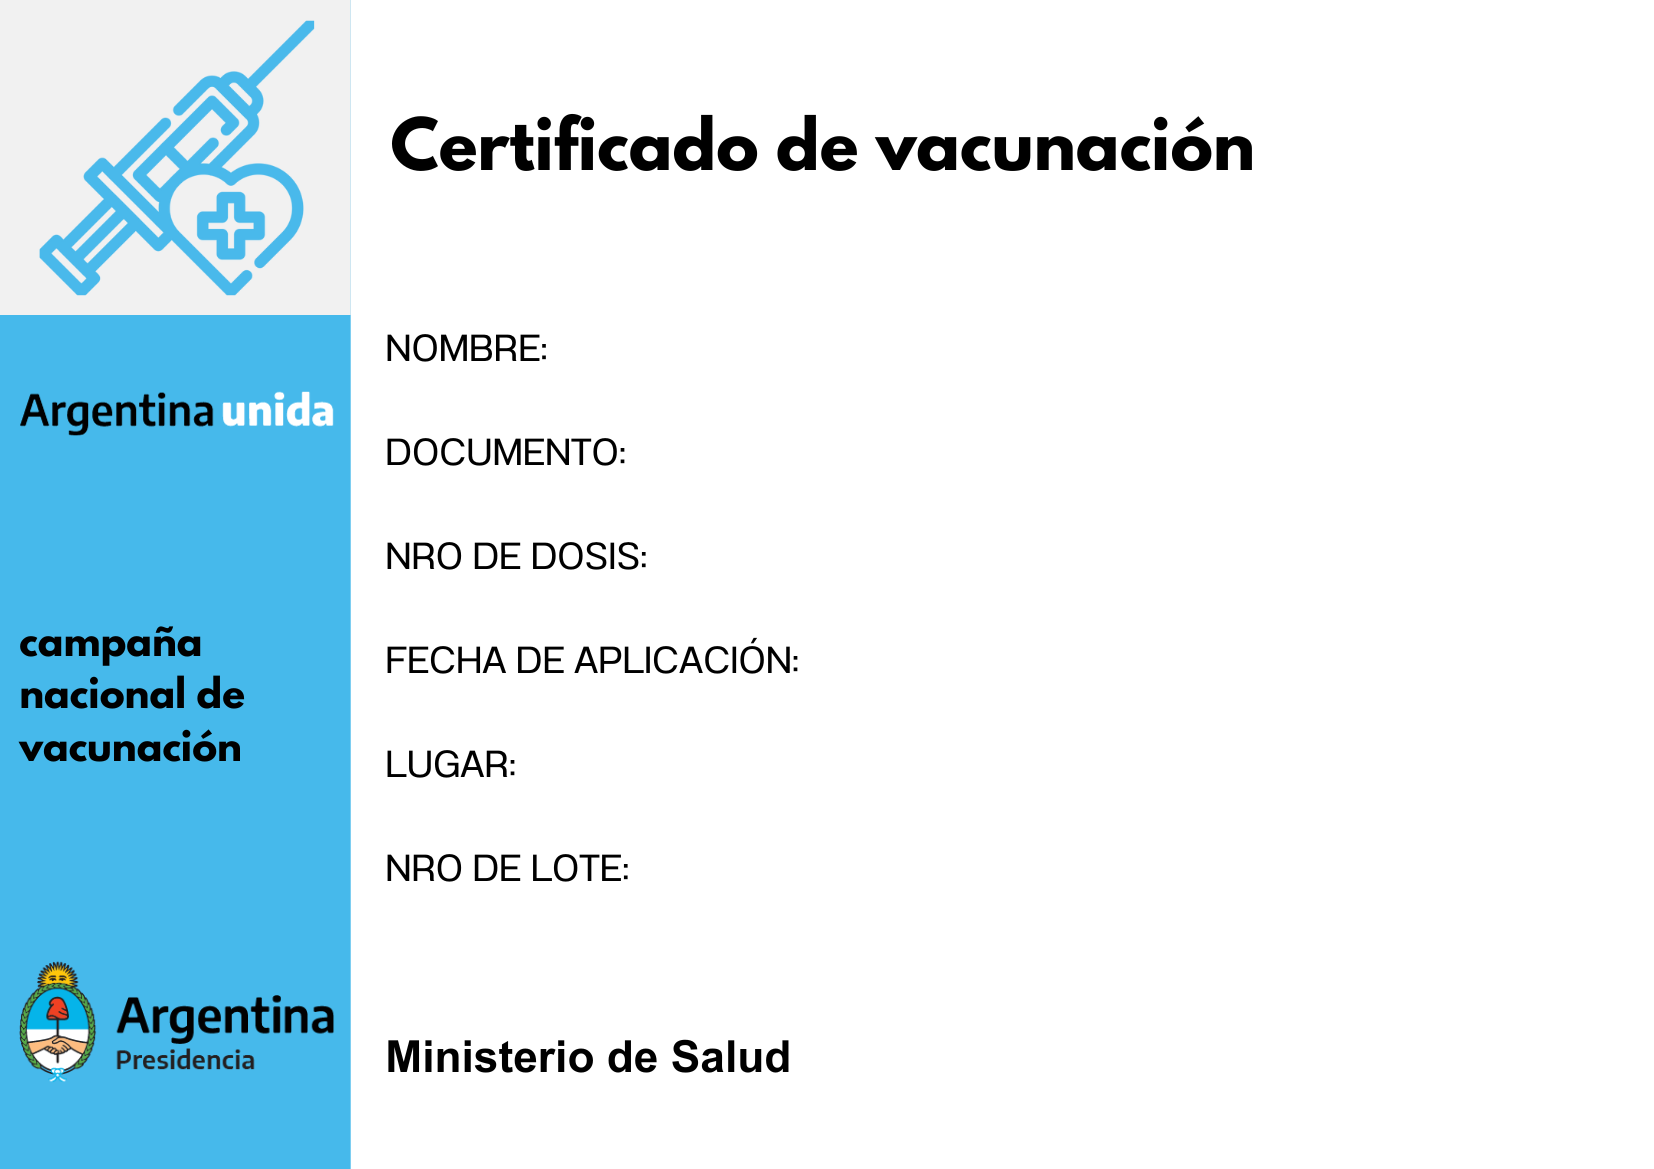
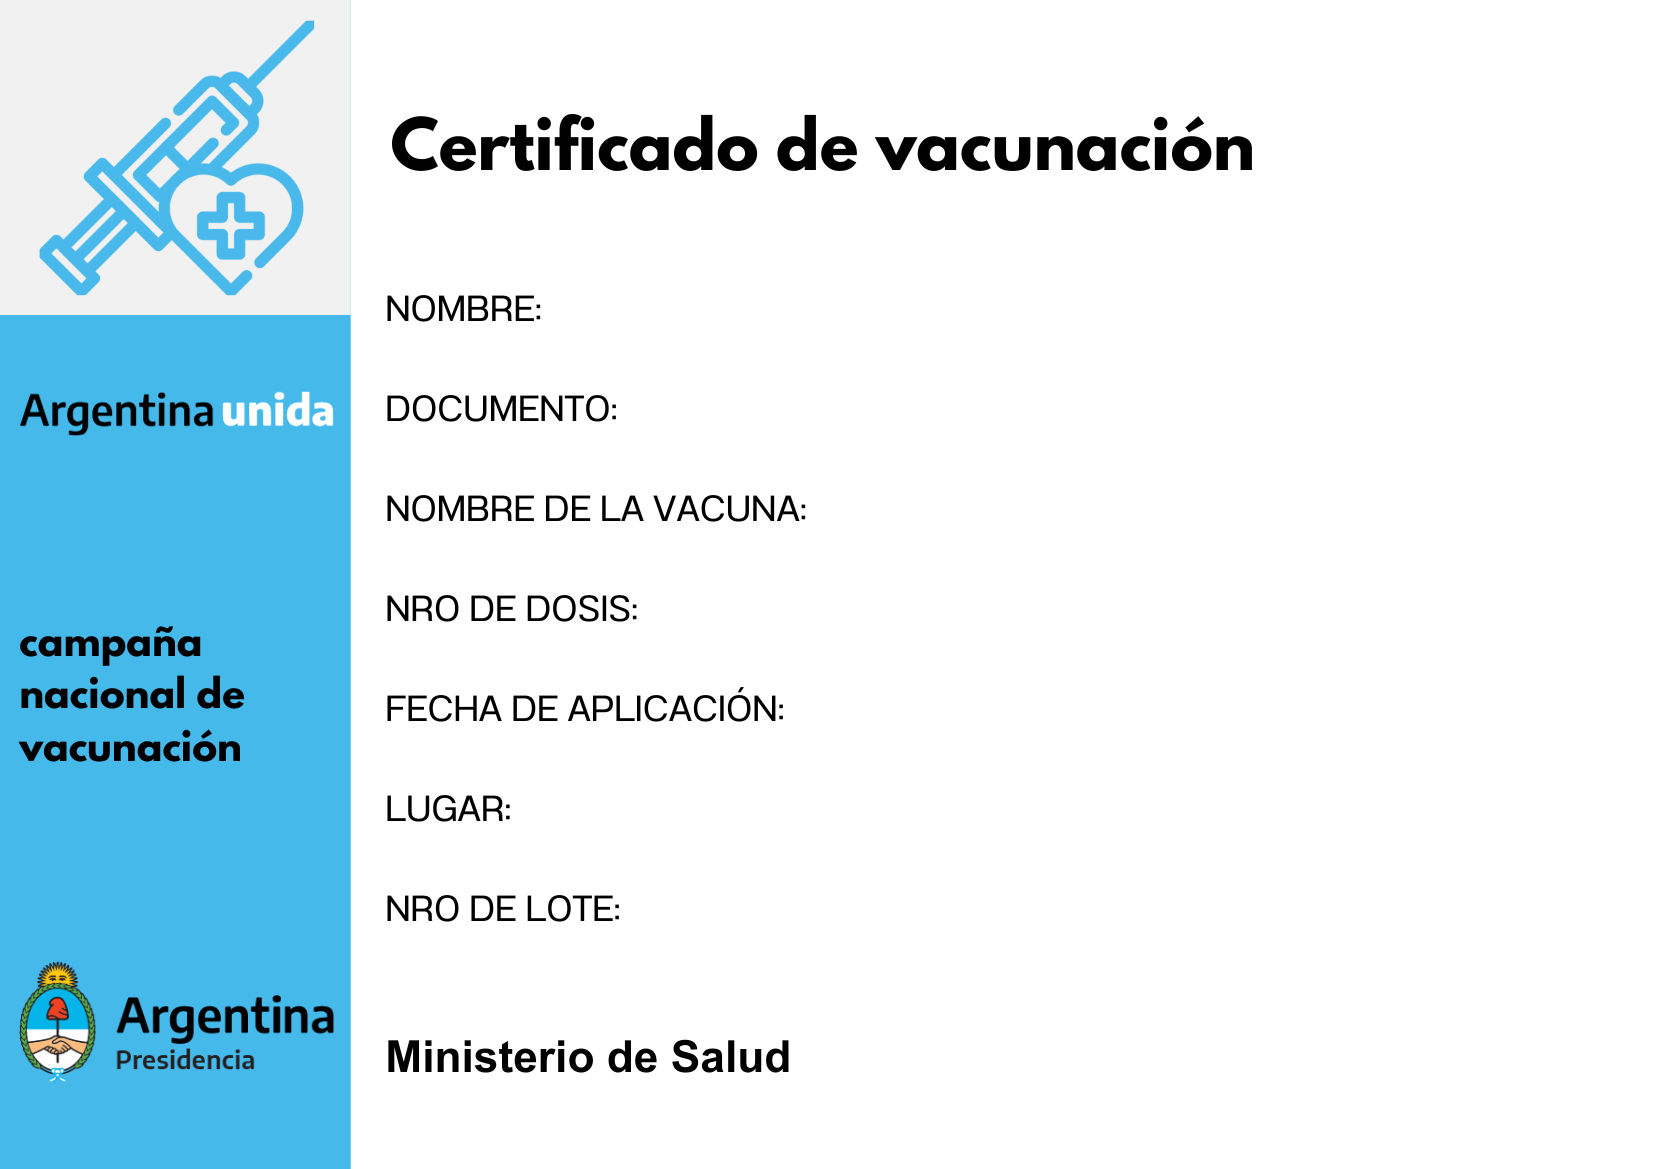
Cambio Final

Changed region(s): [[0.2158, 0.3388, 0.4933, 0.6159], [0.2158, 0.6467, 0.37, 0.8007], [0.2158, 0.2464, 0.3392, 0.308]]

diff --git a/src/SistemaDeVacunacion/Vistas/DatoCertificado.java b/src/SistemaDeVacunacion/Vistas/DatoCertificado.java
@@ -20,6 +20,7 @@ import java.io.FileOutputStream;
 import java.io.IOException;
 import java.util.logging.Level;
 import java.util.logging.Logger;
+import javax.swing.JOptionPane;
 
 /**
  *
@@ -29,9 +30,7 @@ public class DatoCertificado extends javax.swing.JFrame {
 
     private Ciudadano ciudadano;
     private Cita cita;
-    /**
-     * Creates new form Main
-     */
+
     public DatoCertificado() {
         initComponents();
         setSize(800, 629);
@@ -184,27 +183,43 @@ public class DatoCertificado extends javax.swing.JFrame {
             Paragraph txt = new Paragraph();
             txt.setAlignment(Paragraph.ALIGN_RIGHT);
             txt.setFont(FontFactory.getFont(FontFactory.COURIER, 40, Font.BOLD, BaseColor.BLACK));
-            txt.add("\n\n\n\n\n\n\n\n\n\n\n\n\n\n\n\n\n\n\n");
-            txt.add(ciudadano.getApellido() + ", " + ciudadano.getNombre());
-            txt.add("\n\n\n\n\n\n\n" + ciudadano.getDni());
-            txt.add("\n\n\n\n\n\n\n" + ciudadano.getDosis());
+            txt.add("\n\n\n\n\n\n\n\n\n\n\n\n\n\n\n\n" + ciudadano.getApellido() + ", " + ciudadano.getNombre());
+            txt.add("\n\n\n\n\n\n" + ciudadano.getDni());
+            txt.add("\n\n\n\n\n\n\n" + cita.getVacuna().getMarca());
+            txt.add("\n\n\n\n\n\n\n" + textoDosis(ciudadano.getDosis()));
             txt.add("\n\n\n\n\n\n" + ciudadano.getUltimaDosis().format(DateTimeFormatter.ofPattern("dd/MM/yyyy")));
             txt.add("\n\n\n\n\n\n" + cita.getCentro().getId() + "-" + cita.getCentro().getLocalidad() + "-" + cita.getCentro().getDomicilio());
-            txt.add("\n\n\n\n\n\n\n" + cita.getnSerie() + " ");
+            txt.add("\n\n\n\n\n\n" + cita.getnSerie() + " ");
             
             doc.open();
             doc.add(fondo);
             doc.add(txt);
             doc.close();
+            
+            
+            
+            JOptionPane.showMessageDialog(null, "Su certificado se ha guardado en el escritorio", "Certificado guardado", 1);
         } catch (DocumentException | FileNotFoundException e) {
         } catch (IOException ex) {
             Logger.getLogger(DatoCertificado.class.getName()).log(Level.SEVERE, null, ex);
         }
     }//GEN-LAST:event_boton_descargar_certificadoActionPerformed
 
-    /**
-     * @param args the command line arguments
-     */
+    public String textoDosis(int dosis){
+        String texto;
+        
+        switch(dosis){
+            case 1:
+                return "Primera";
+            case 2:
+                return "Segunda";
+            case 3:
+                return "Tercera";
+            default:
+                return "Refuerzo " + dosis;
+        }
+    }
+
     public static void main(String args[]) {
         try {
             for (javax.swing.UIManager.LookAndFeelInfo info : javax.swing.UIManager.getInstalledLookAndFeels()) {
@@ -217,7 +232,6 @@ public class DatoCertificado extends javax.swing.JFrame {
             java.util.logging.Logger.getLogger(DatoCertificado.class.getName()).log(java.util.logging.Level.SEVERE, null, ex);
         }
 
-        /* Create and display the form */
         java.awt.EventQueue.invokeLater(new Runnable() {
             public void run() {
                 new DatoCertificado().setVisible(true);
